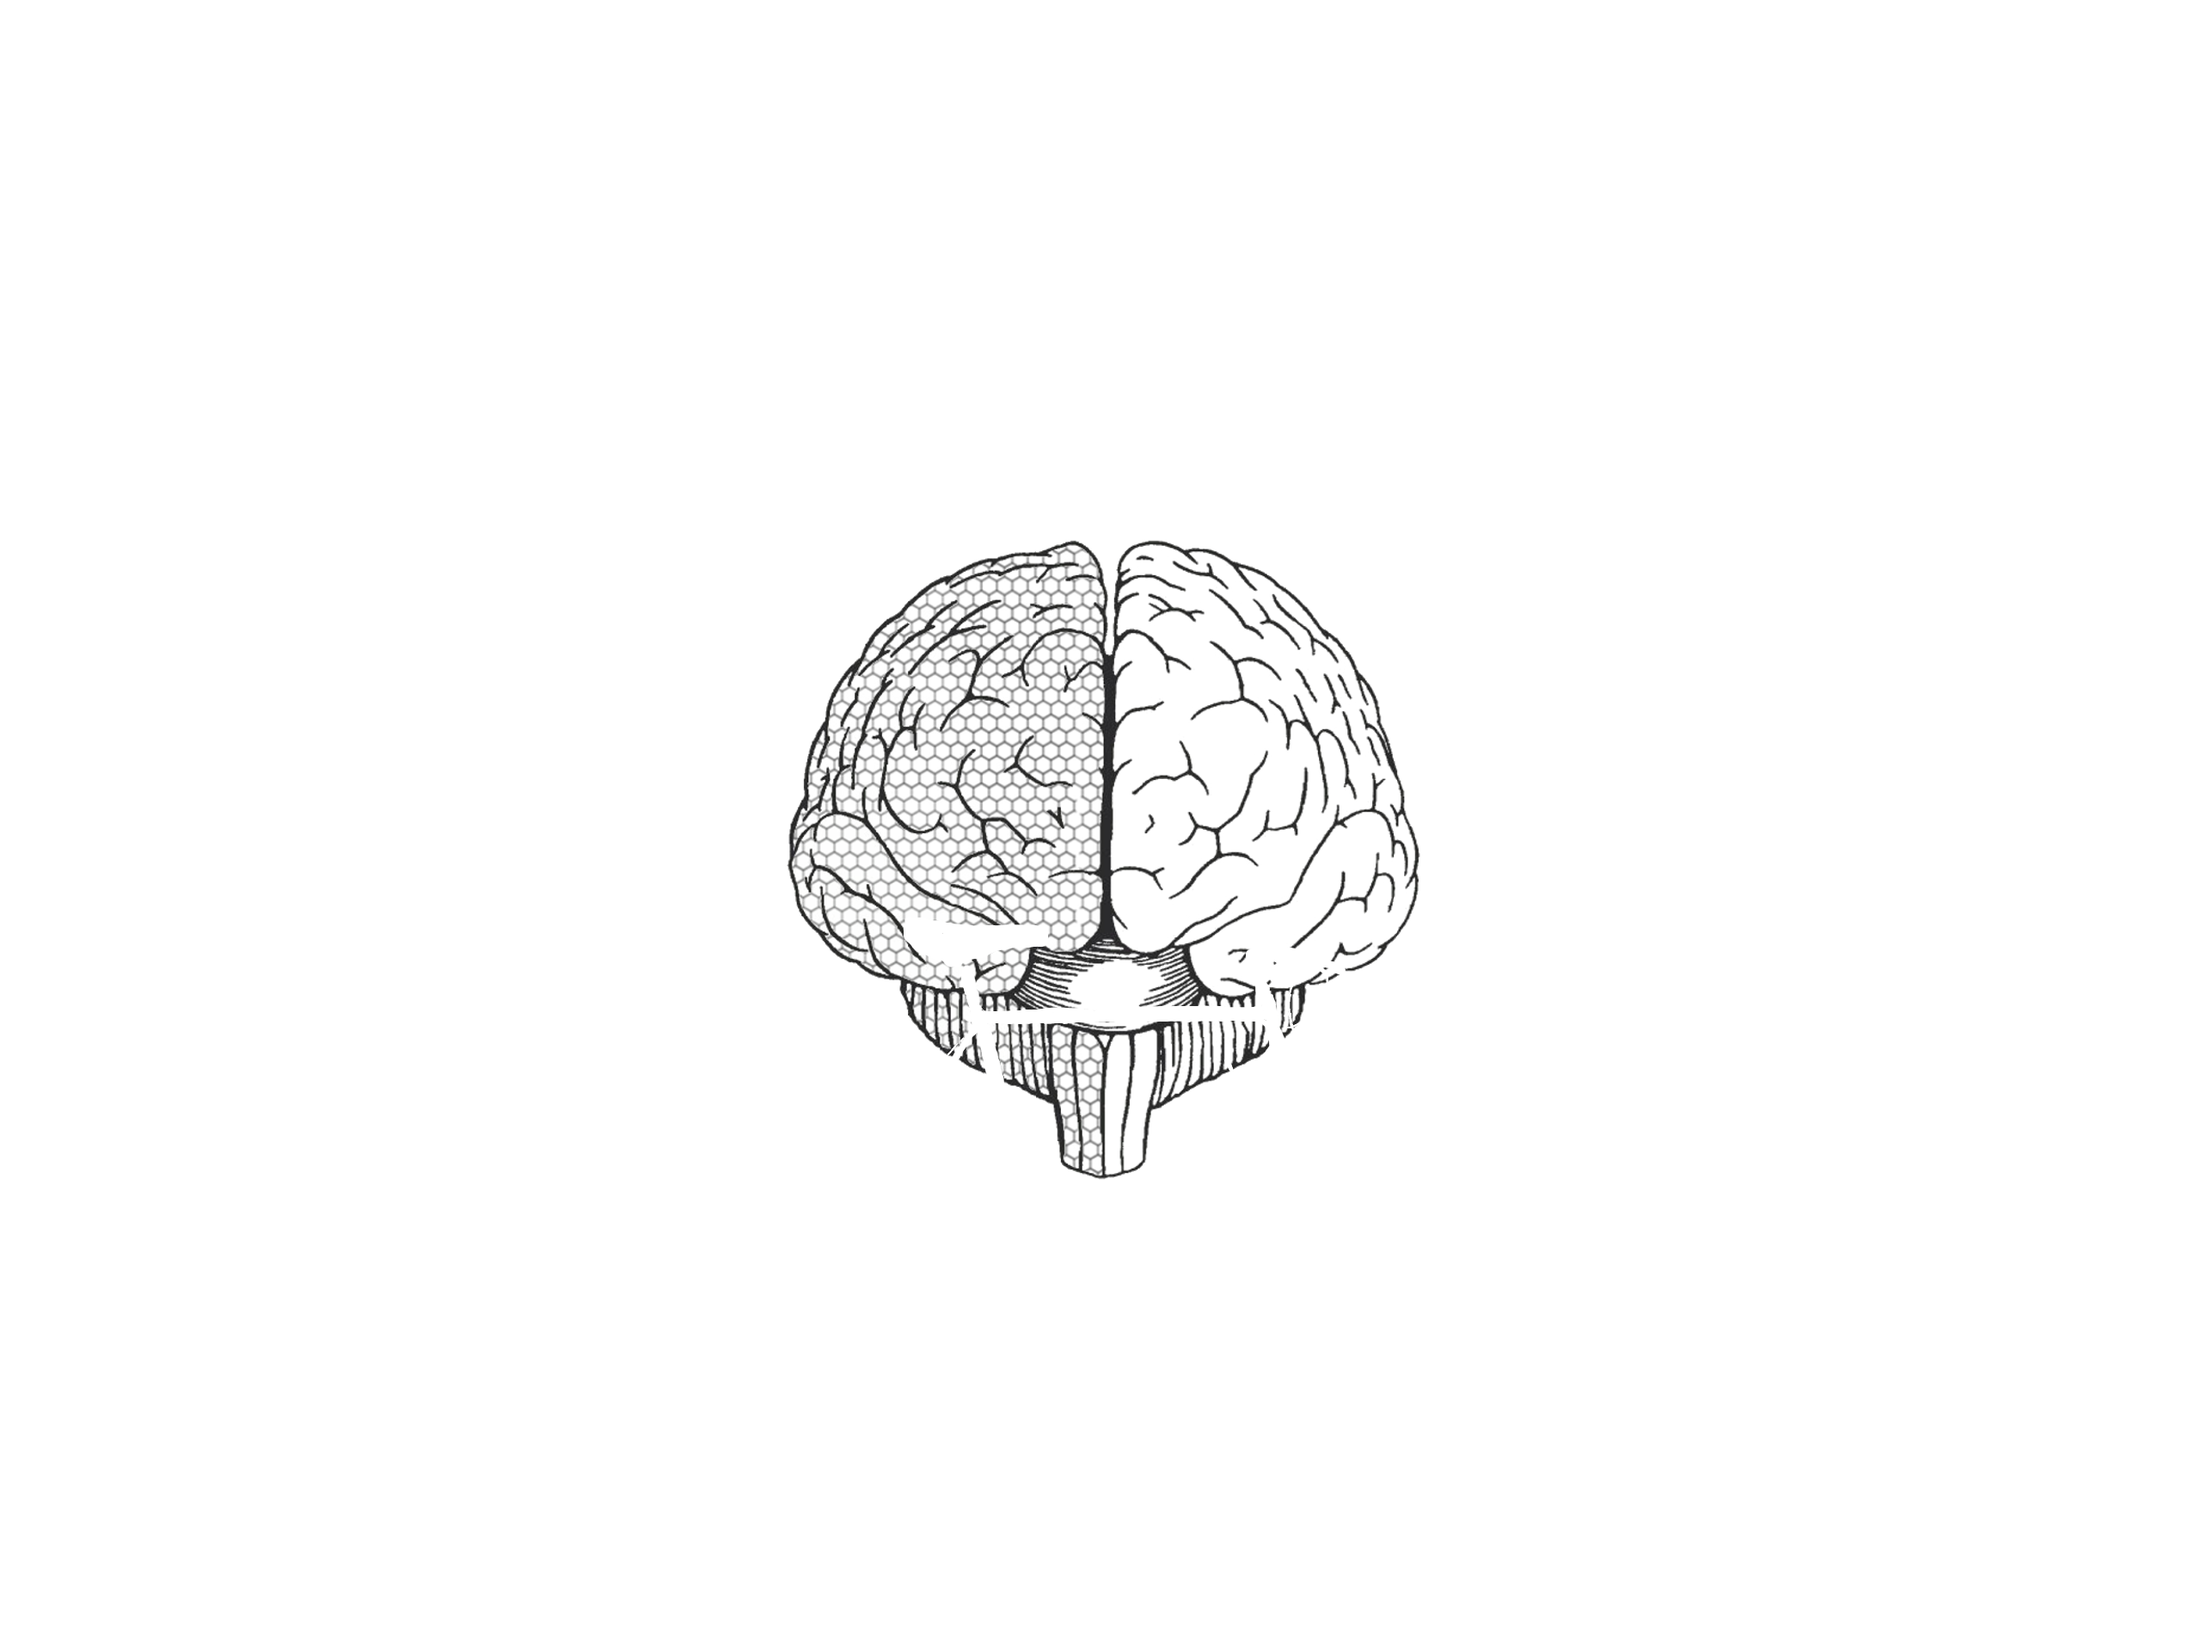
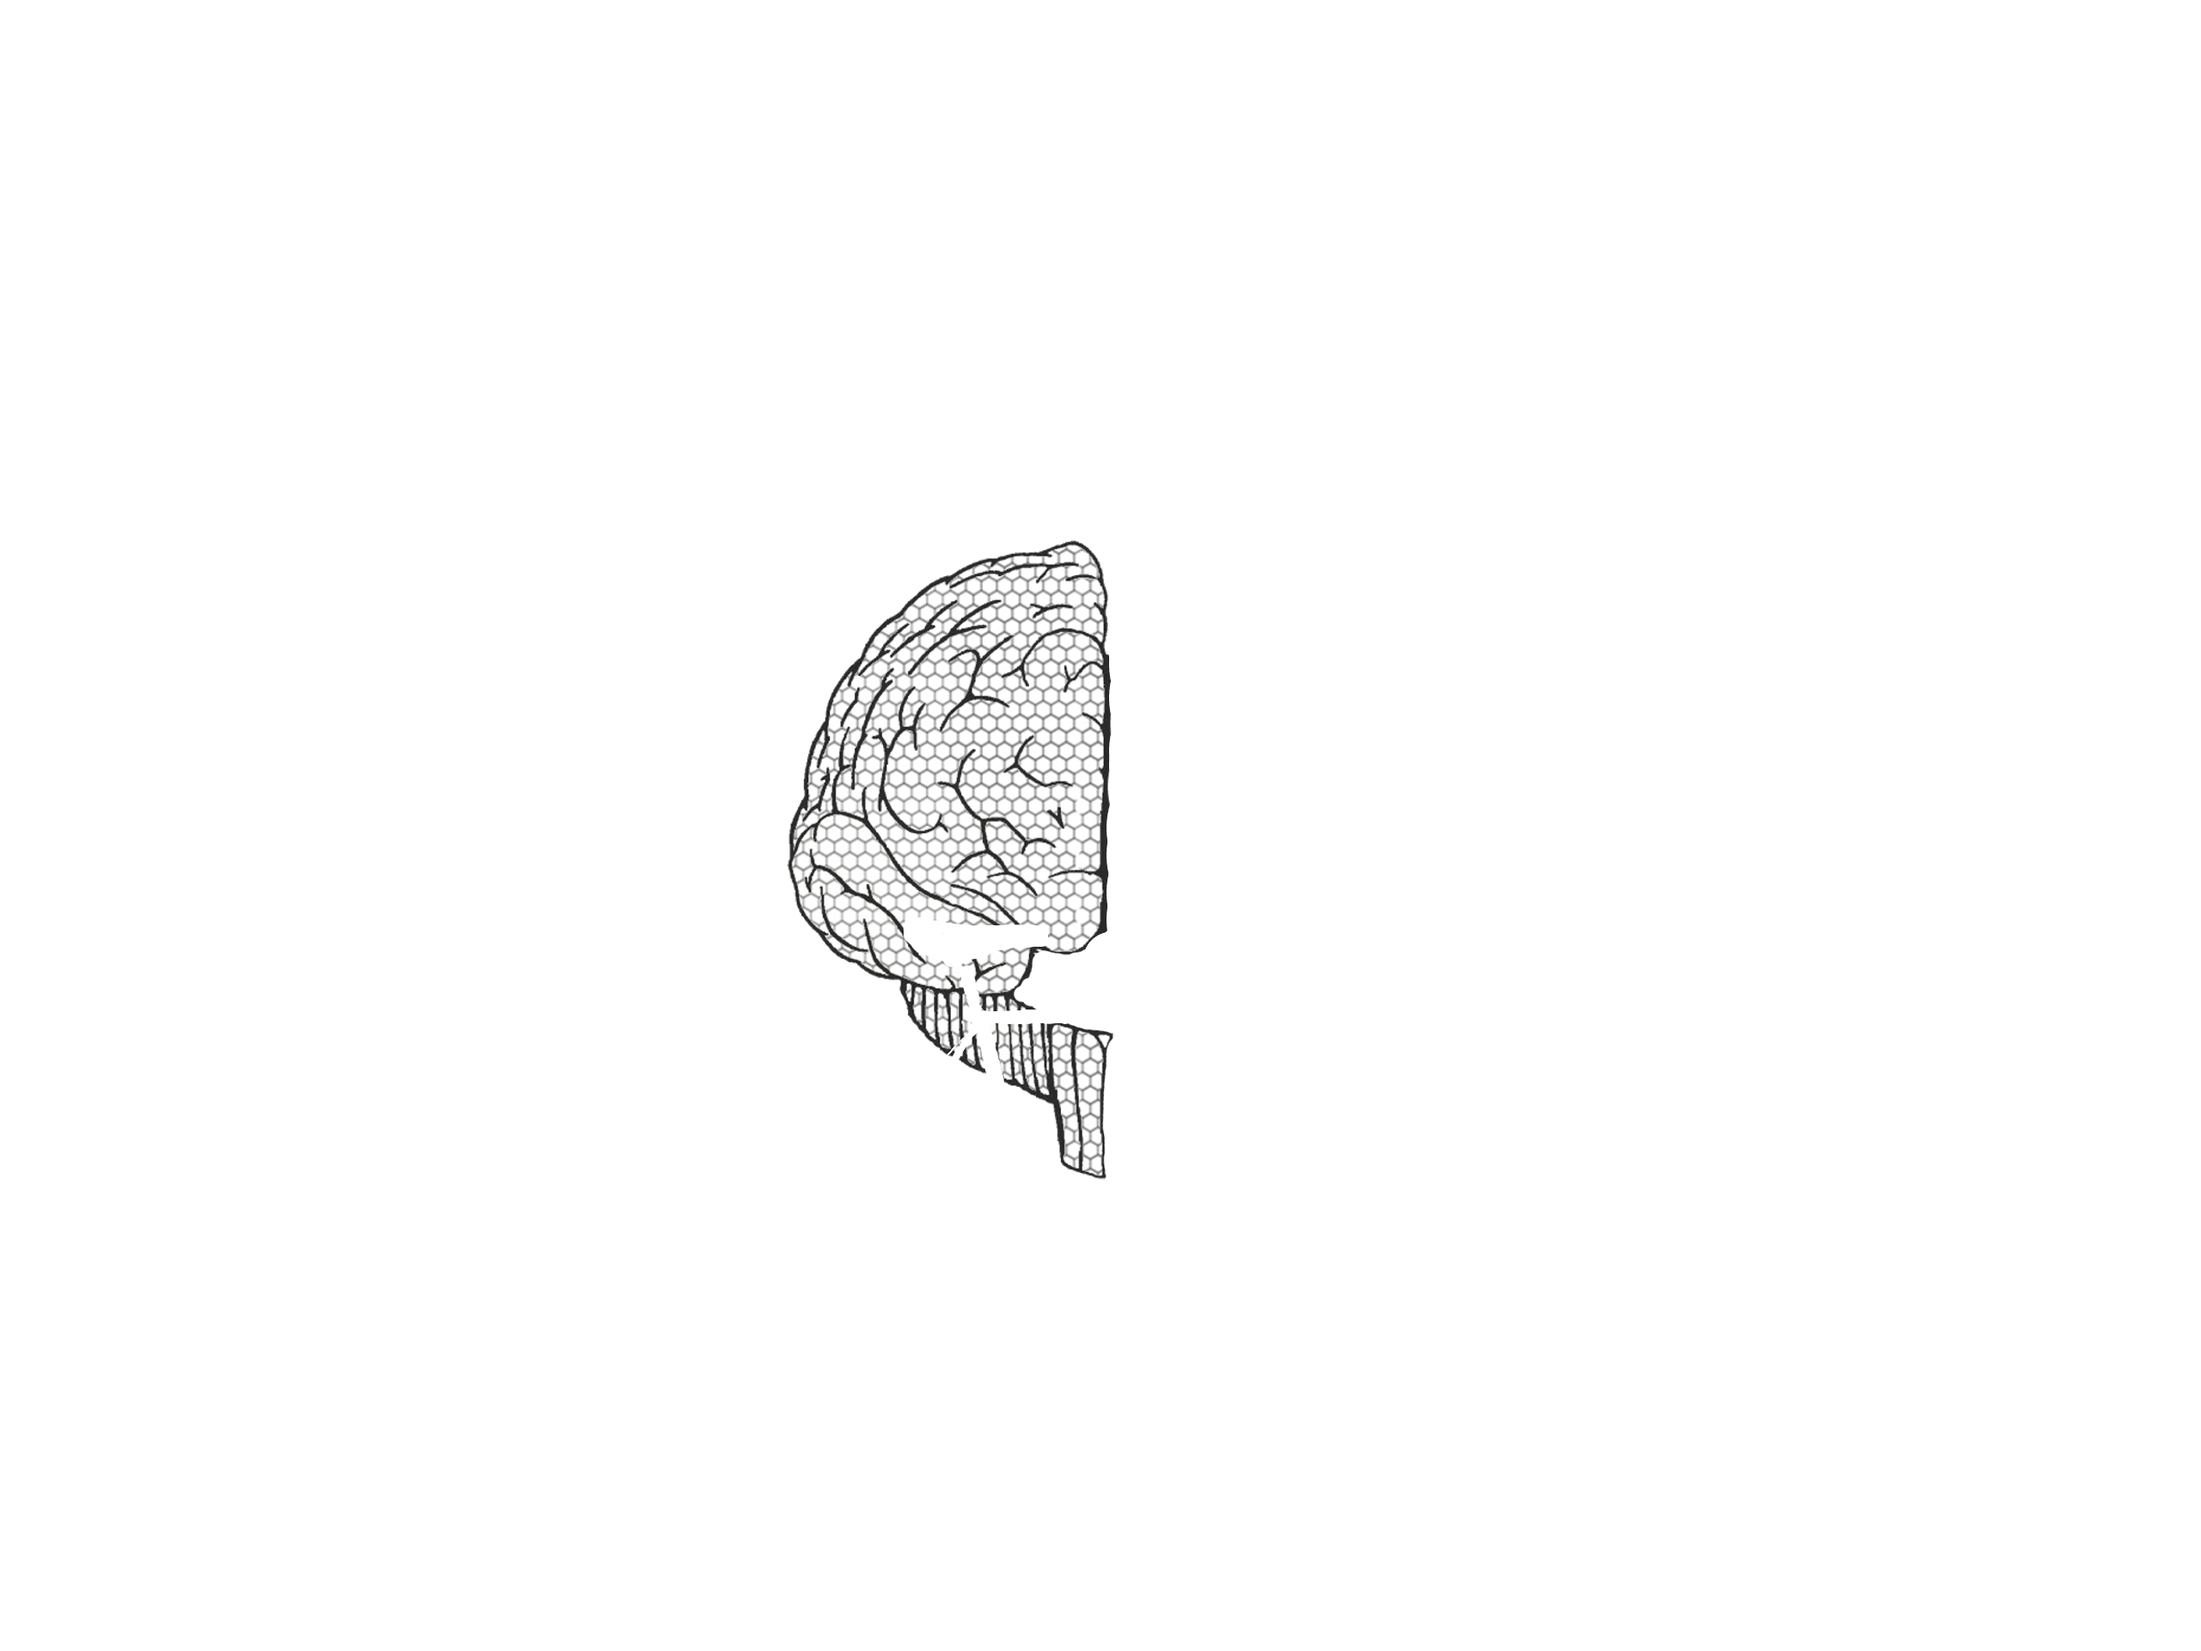
Updates files and adds JQuery for hover action

Changed region(s): [[0.4688, 0.3125, 0.6562, 0.7188]]

diff --git a/public/JS/personal_site.js b/public/JS/personal_site.js
@@ -1,0 +1,26 @@
+$('.left').hover(
+  function () {
+    console.log('hi')
+    $('.site-wrapper-inner').css('background-image',
+    '-webkit-gradient(linear, left bottom, left top, color-stop(0%, rgba(0, 0, 0, 0)), color-stop(78%, rgba(0, 0, 0, 0)), color-stop(100%, rgba(0, 0, 0, 0.65))), url(pictures/left-mask.png), url(pictures/background_updated.png)'
+  )
+  }, function () {
+    $('.site-wrapper-inner').css('background-image',
+    '-webkit-gradient(linear, left bottom, left top, color-stop(0%, rgba(0, 0, 0, 0)), color-stop(78%, rgba(0, 0, 0, 0)), color-stop(100%, rgba(0, 0, 0, 0.65))), url(pictures/background_updated.png)'
+)
+}
+);
+
+
+$('.right').hover(
+  function () {
+    console.log('hi')
+    $('.site-wrapper-inner').css('background-image',
+    '-webkit-gradient(linear, left bottom, left top, color-stop(0%, rgba(0, 0, 0, 0)), color-stop(78%, rgba(0, 0, 0, 0)), color-stop(100%, rgba(0, 0, 0, 0.65))), url(pictures/right-mask.png), url(pictures/background_updated.png)'
+  )
+  }, function () {
+    $('.site-wrapper-inner').css('background-image',
+    '-webkit-gradient(linear, left bottom, left top, color-stop(0%, rgba(0, 0, 0, 0)), color-stop(78%, rgba(0, 0, 0, 0)), color-stop(100%, rgba(0, 0, 0, 0.65))), url(pictures/background_updated.png)'
+)
+}
+);

diff --git a/public/CSS/personal_site.css b/public/CSS/personal_site.css
@@ -18,16 +18,17 @@ body {
   -webkit-box-shadow: inset 0 0 100px rgba(0,0,0,.5);
           box-shadow: inset 0 0 100px rgba(0,0,0,.5);
 }
-.site-wrapper-inner {
-  background: -webkit-gradient(linear, left bottom, left top, color-stop(0%, rgba(0, 0, 0, 0)), color-stop(78%, rgba(0, 0, 0, 0)), color-stop(100%, rgba(0, 0, 0, 0.65))), url(../pictures/background_photo.png) no-repeat;
+.site-wrapper-inner{
+  background: -webkit-gradient(linear, left bottom, left top, color-stop(0%, rgba(0, 0, 0, 0)), color-stop(78%, rgba(0, 0, 0, 0)), color-stop(100%, rgba(0, 0, 0, 0.65))), url(../pictures/background_updated.png) no-repeat;
   display: table-cell;
   vertical-align: top;
-  background-color: white;
-  /*background-image: url(../pictures/background_photo.png);*/
+  background-color: none;
   background-position:50% 50%;
   background-size: cover;
   background-repeat: no-repeat;
   width: 100%;
+  height: 100%;
+  position: relative;
 }
 
 .cover-container {
@@ -79,4 +80,15 @@ nav ul li {
     margin: 30px 20px;
     color: #fff;
     font-weight: bold;
+}
+
+.left {
+  width: 50%;
+  height: 100%;
+}
+
+.right {
+  width: 50%;
+  float: left;
+  position: absolute;
 }

diff --git a/public/index.html b/public/index.html
@@ -42,10 +42,11 @@
           </div>
         </nav>
 
-        <div class="left container">
+        <div class="left">
+        
         </div>
-
-        <div class="right container"
+        <div class="right">
+          test
         </div>
 
       </div>
@@ -54,5 +55,6 @@
   <!-- Scrips -->
   <script src="https://ajax.googleapis.com/ajax/libs/jquery/1.11.3/jquery.min.js"></script>
   <script src="https://maxcdn.bootstrapcdn.com/bootstrap/3.3.6/js/bootstrap.min.js" integrity="sha384-0mSbJDEHialfmuBBQP6A4Qrprq5OVfW37PRR3j5ELqxss1yVqOtnepnHVP9aJ7xS" crossorigin="anonymous"></script>
+  <script src="JS/personal_site.js"></script>
   </body>
 </html>
